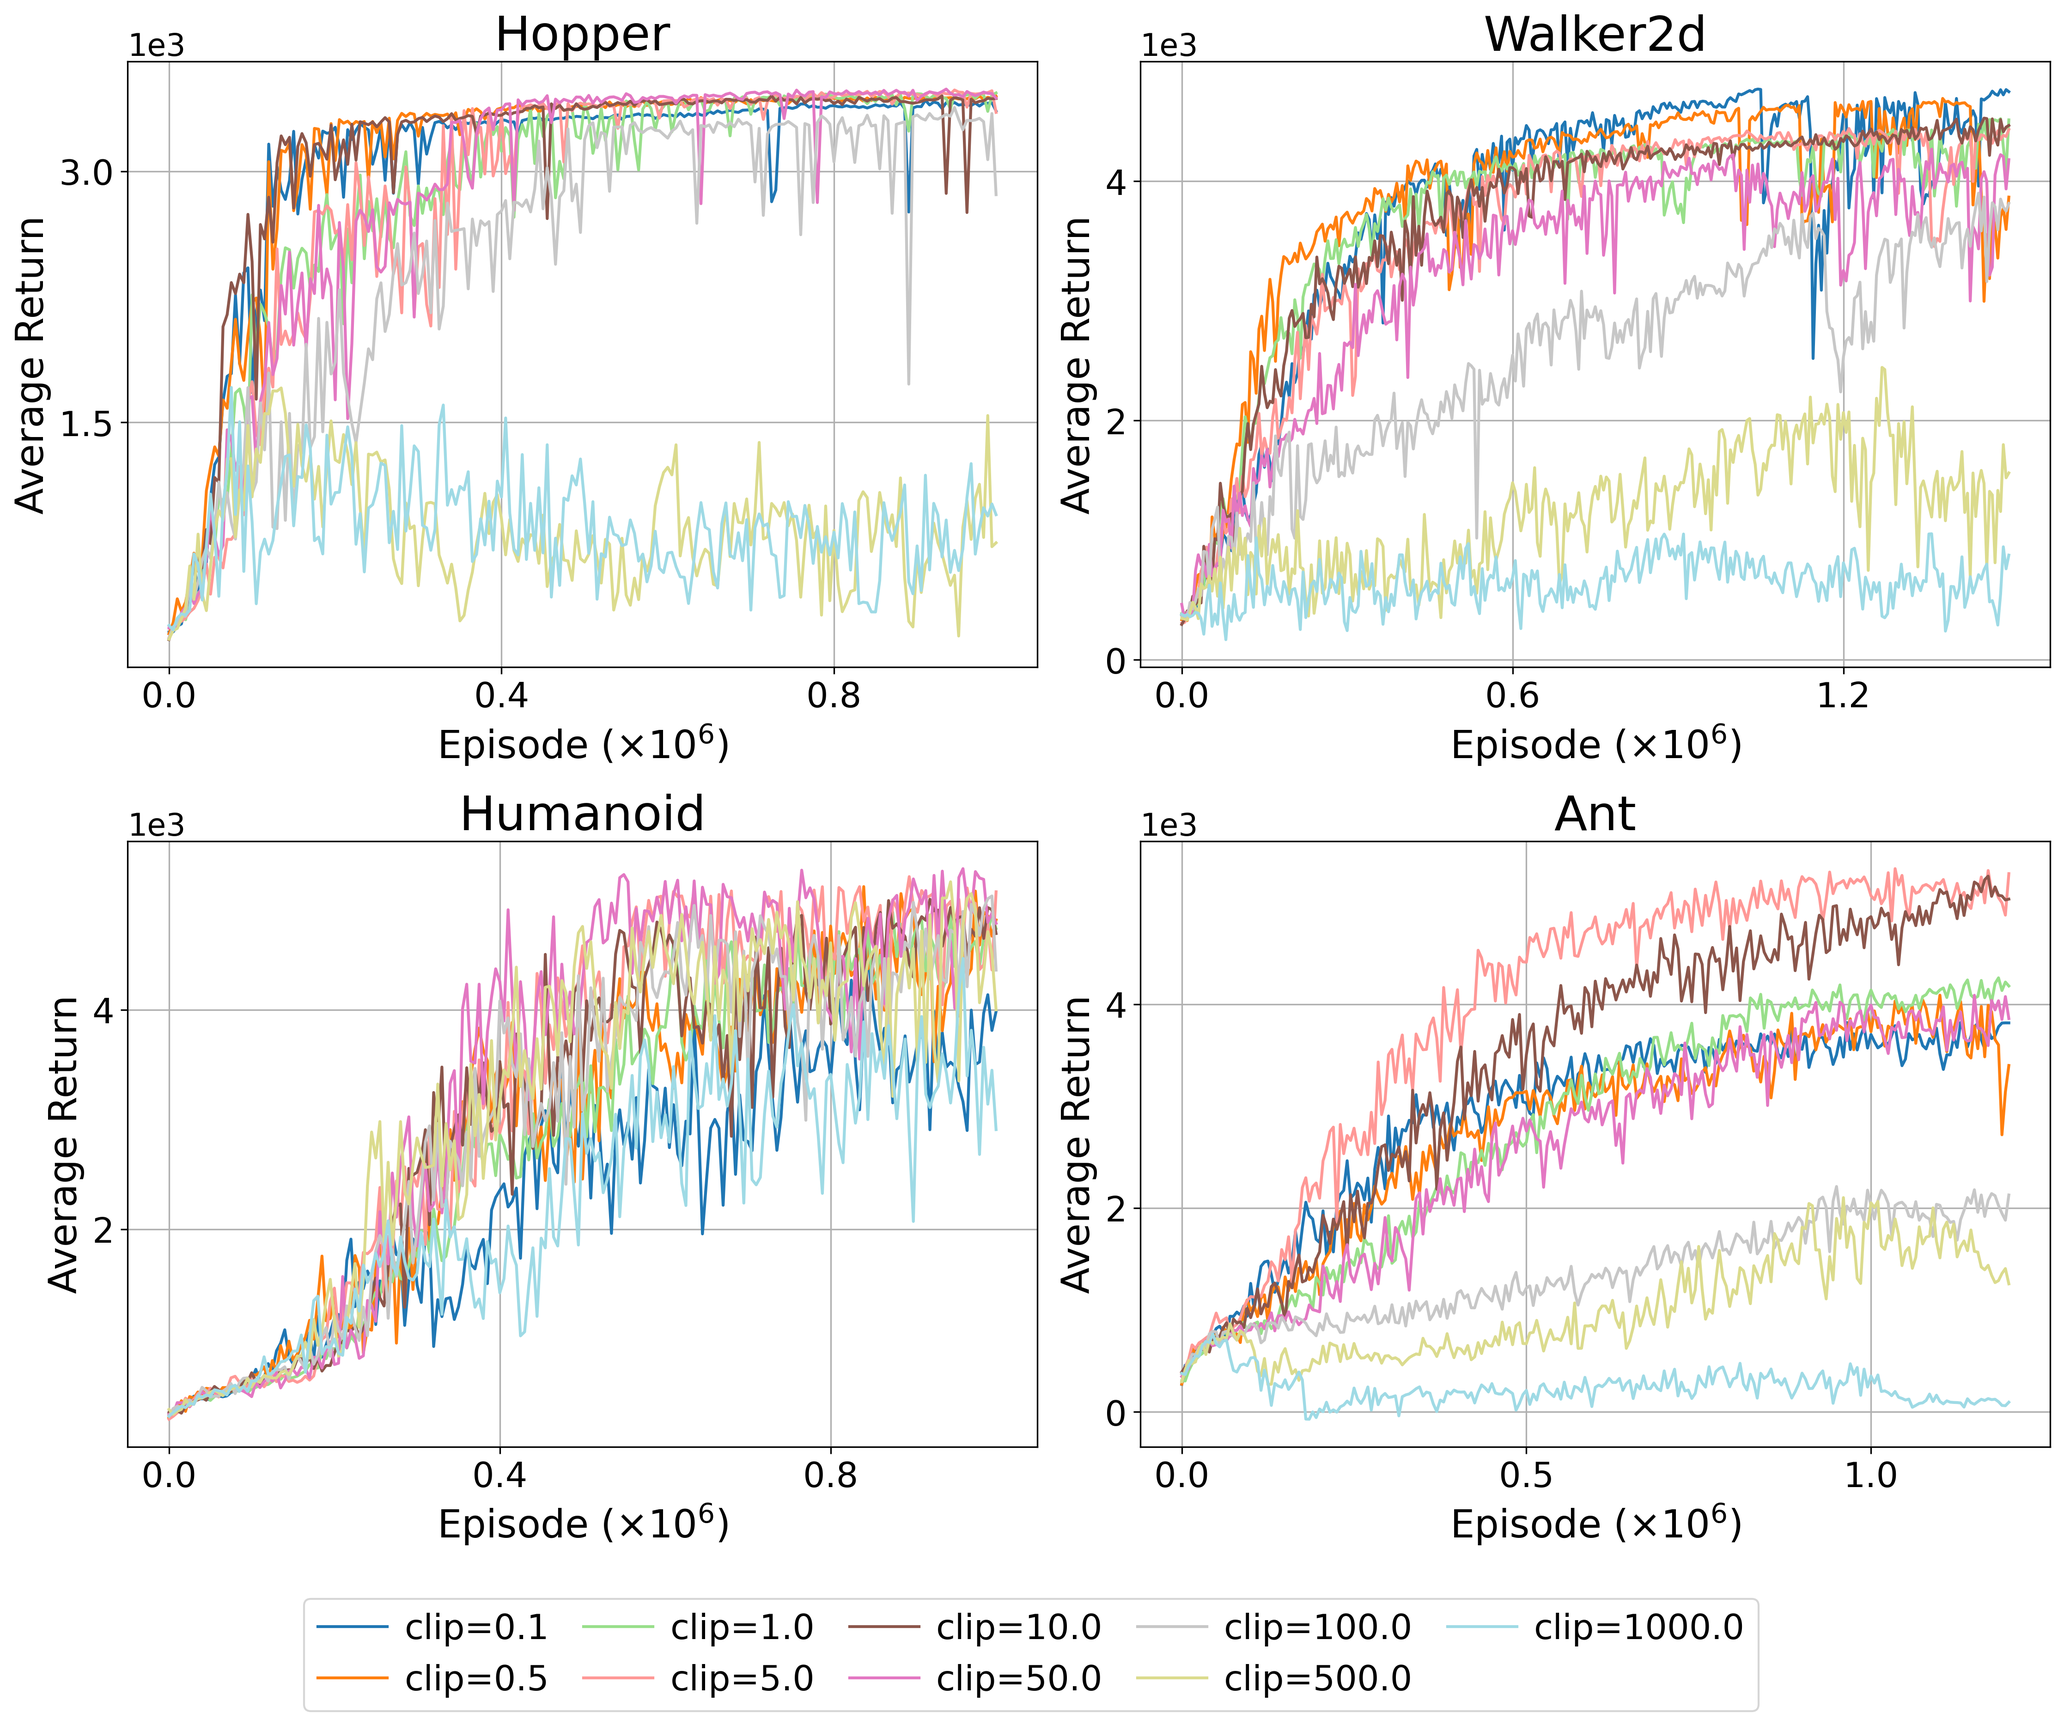
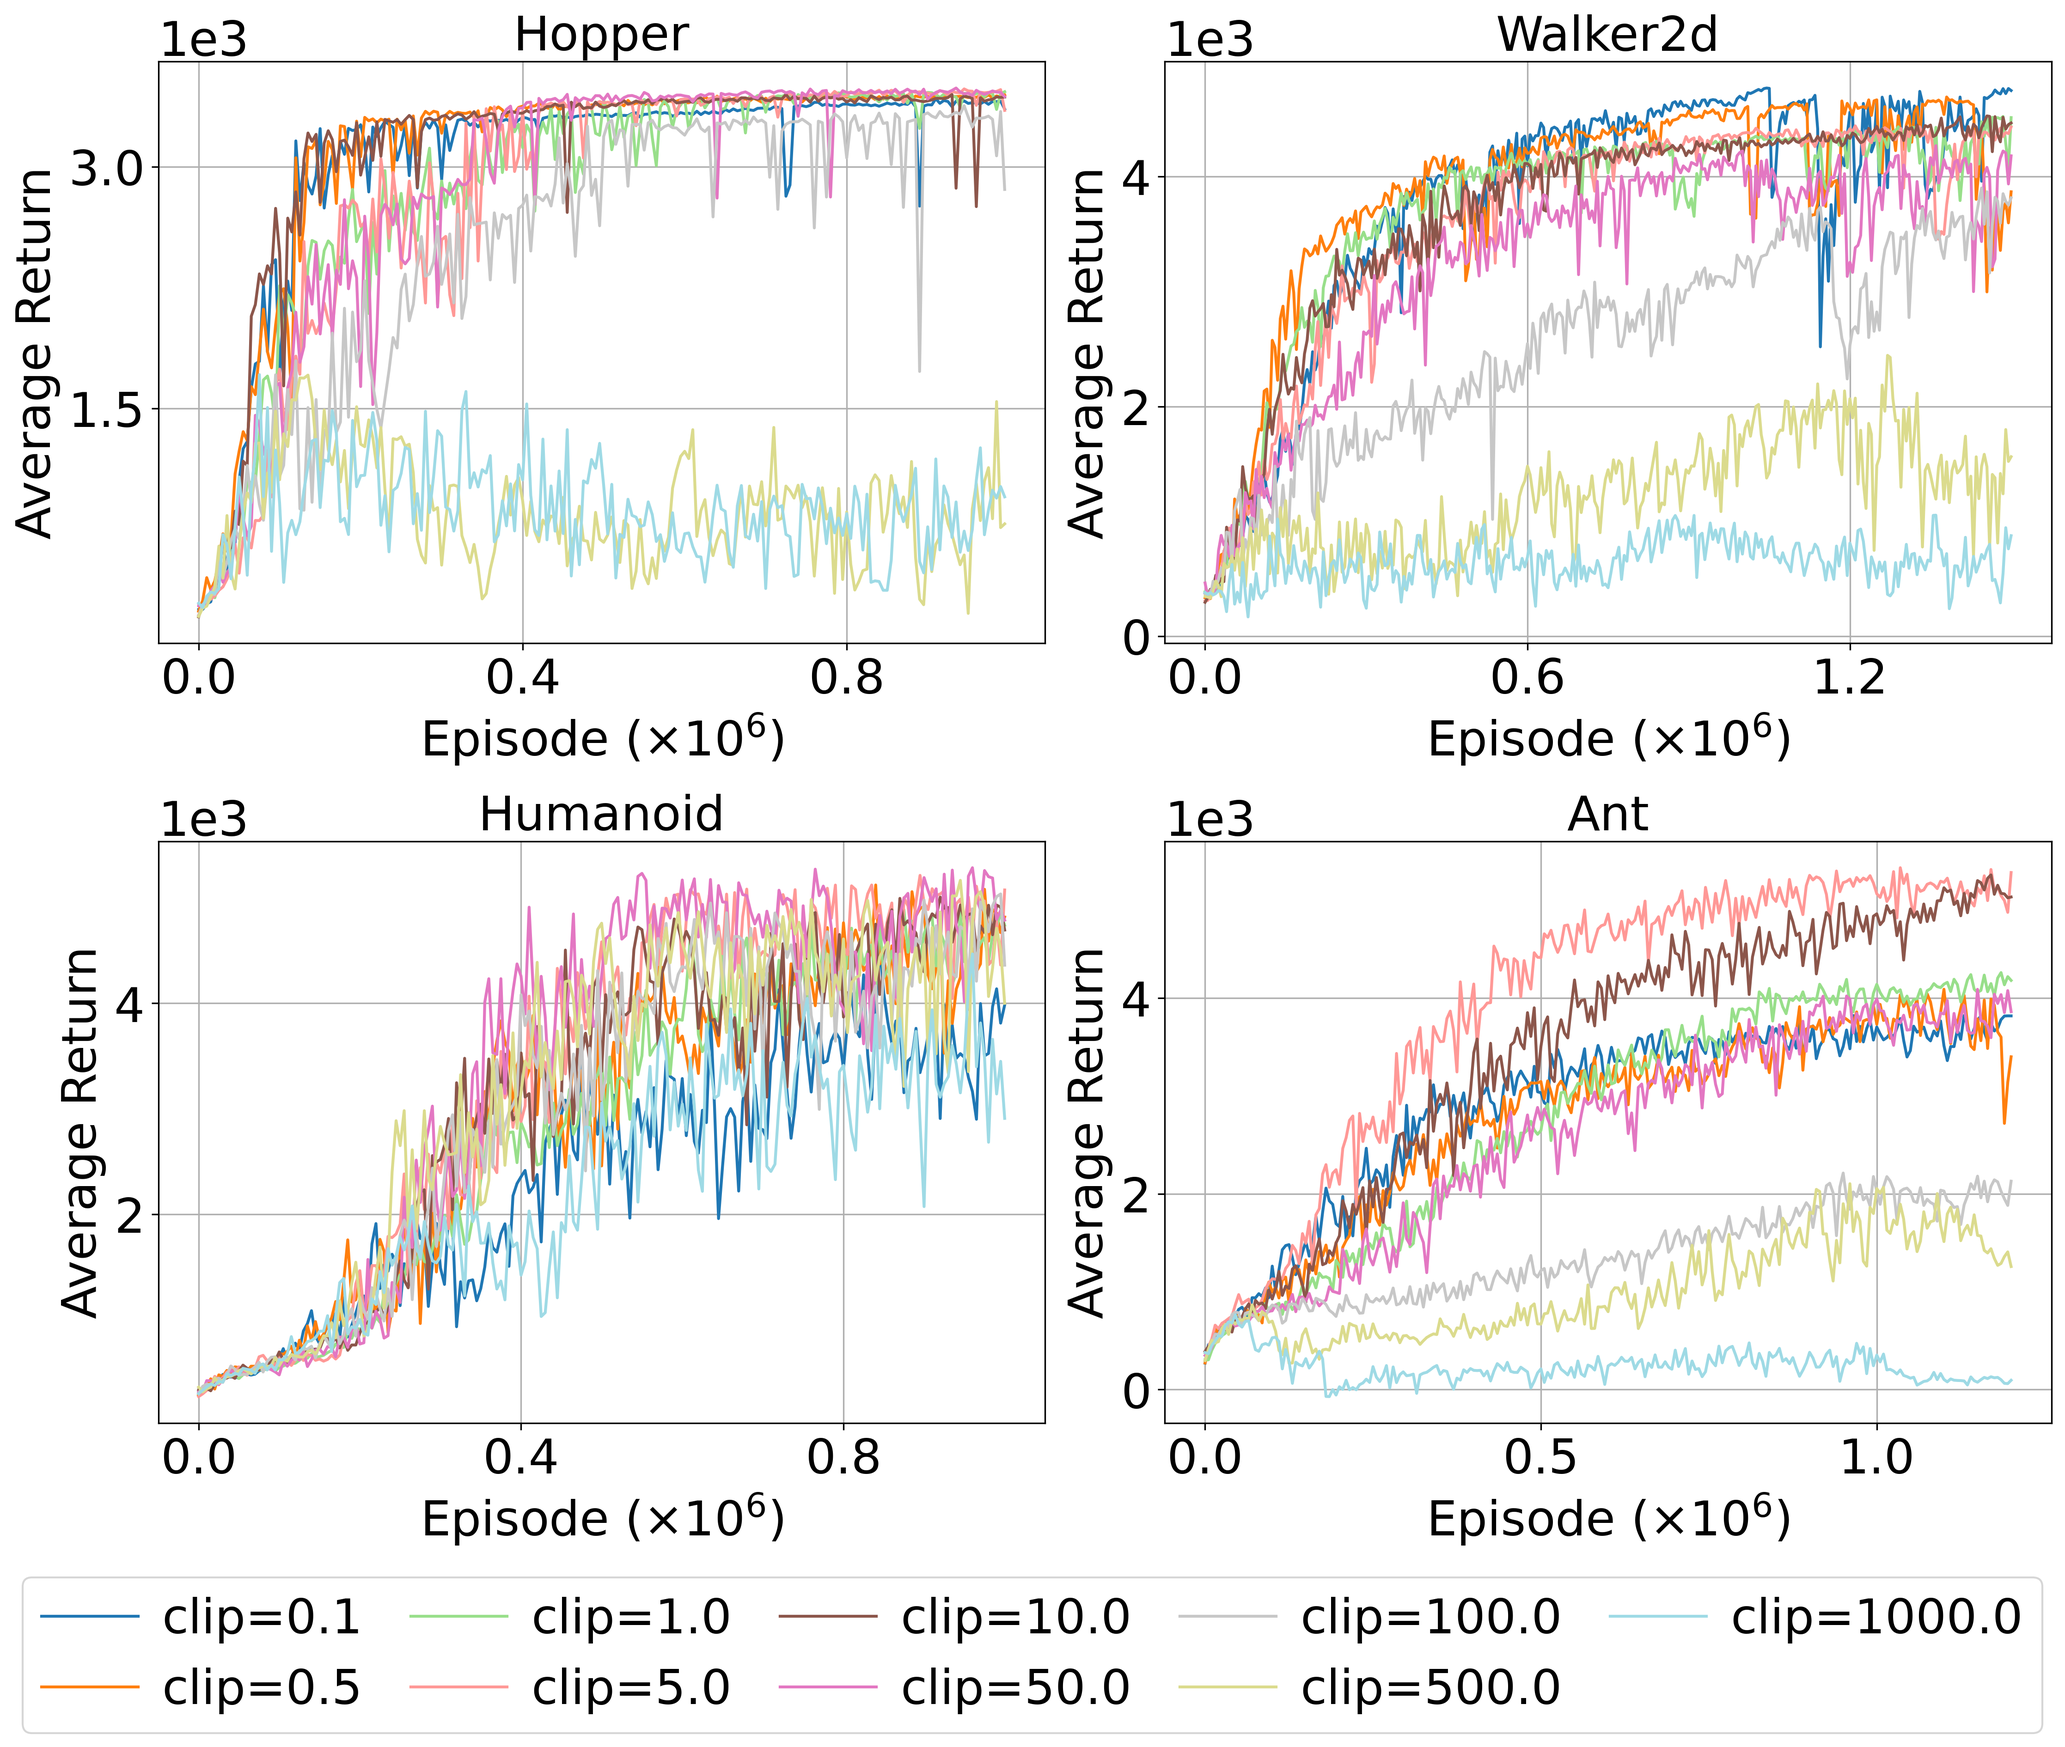
last plots

diff --git a/plotting_code/plot_returns.py b/plotting_code/plot_returns.py
@@ -201,12 +201,11 @@ def create_method_comparison_figure(
     fig, axes = plt.subplots(2, 2, figsize=(15, 12))
     axes = axes.flatten()
     
-    # Set font sizes
     TITLE_SIZE = 25
-    AXIS_LABEL_SIZE = 20
-    TICK_SIZE = 18
-    LEGEND_SIZE = 18 
-    AXIS_UNIT_SIZE = 16
+    AXIS_LABEL_SIZE = 25
+    TICK_SIZE = 25
+    LEGEND_SIZE = 25
+    AXIS_UNIT_SIZE = 25
 
     # Dictionary to store all unique clip values found in the data
     all_clip_values = set()
